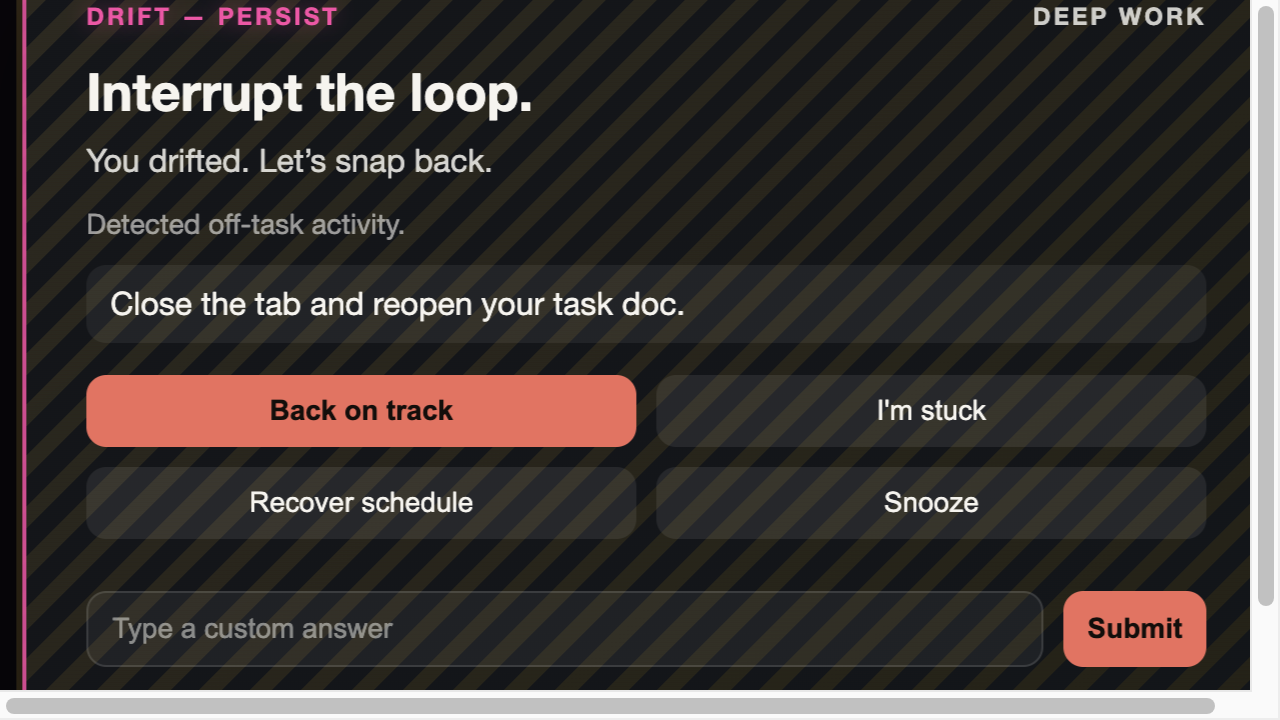
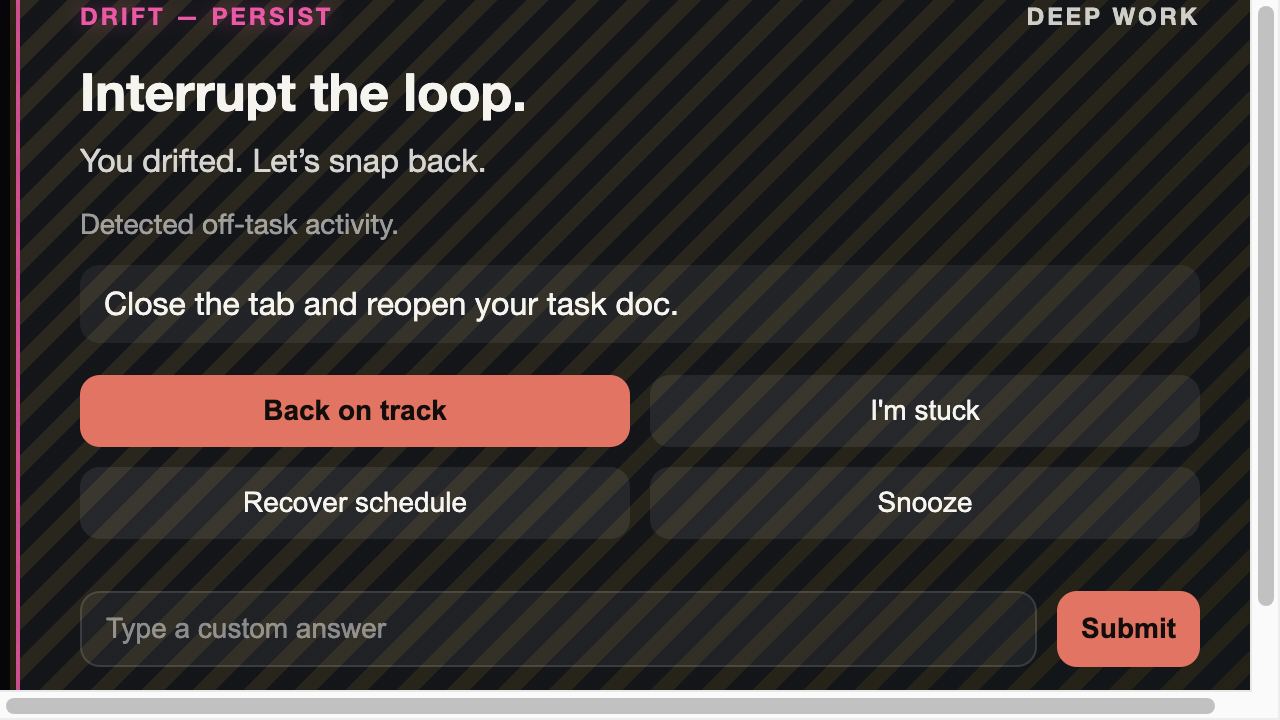
overlay: make screenshots deterministic

diff --git a/overlay/overlay.css b/overlay/overlay.css
@@ -224,6 +224,12 @@ button.primary:hover {
   color: rgba(246, 244, 239, 0.5);
 }
 
+/* Screenshot mode: keep captures deterministic (no animations/transitions). */
+html[data-screenshot="true"] * {
+  animation: none !important;
+  transition: none !important;
+}
+
 /* Visual pattern-break: DRIFT_PERSIST should feel unmistakably different.
    Keep it deterministic (no animations) so screenshot snapshots are stable. */
 #overlay[data-event-type="DRIFT_PERSIST"] {

diff --git a/overlay/screenshot.js b/overlay/screenshot.js
@@ -34,6 +34,12 @@ async function main() {
 
   await win.loadFile(htmlPath);
 
+  // Make screenshots deterministic by disabling animations/transitions.
+  await win.webContents.executeJavaScript(
+    "document.documentElement.dataset.screenshot = 'true';",
+    true
+  );
+
   async function capture(name, payload) {
     // Give the DOM a moment to settle, then render the payload.
     await new Promise((r) => setTimeout(r, 50));
